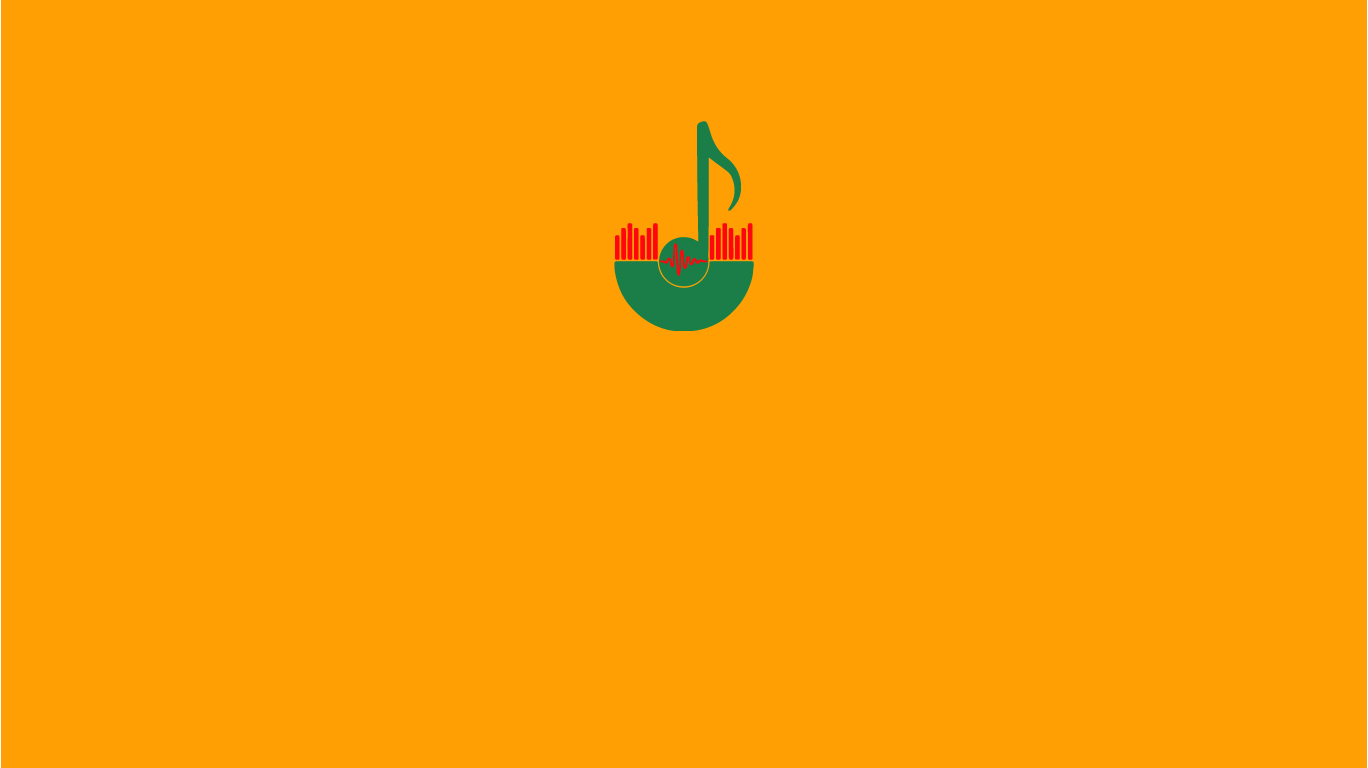
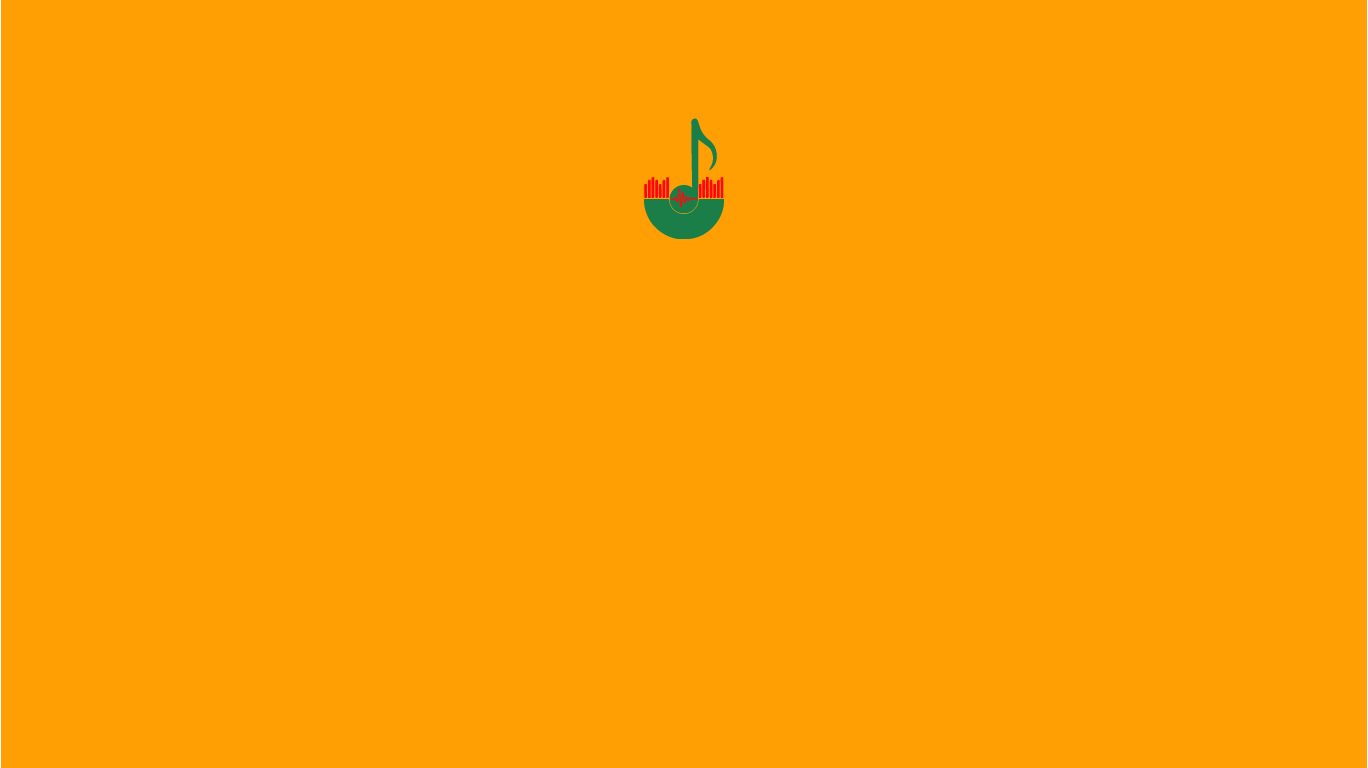
a

Changed region(s): [[0.4298, 0.1562, 0.5526, 0.4375]]

diff --git a/index.html b/index.html
@@ -39,9 +39,9 @@
 
     .bgimg {
         background-image: url('COMING SOON.jpg');
-        min-height: 100%;
+        min-height: 120%;
         width: 100%;
-        height: auto;
+        height: center;
         background-position: center;
         background-size: auto;
     }
@@ -50,16 +50,13 @@
 
 <body>
 
-    <div class="bgimg w3-display-container w3-animate-opacity w3-text-white">
-        <div class="w3-display-topleft w3-padding-large w3-xlarge">
+    <div class="bgimg w3-display-container w3-animate-opacity w3-text-black">
 
         </div>
         <center><div class="w3-display-middle">
-            <h1 class="w2-jumbo w3-animate-top">COMING SOON</h1>
-
-
-
+            <h1 class="w2-jumbo w3-animate-opacity">COMING SOON</h1>
         </div></center>
+
         <center><div class="w3-display-bottommiddle w3-padding-large">
             <strong>Copyright &copy; 2021 <a href="https://linktr.ee/mckaranistudios">McKarani Studios.</a></strong>
     </div></center>
